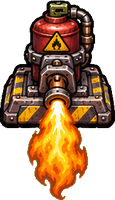
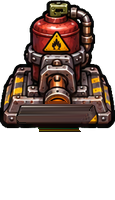
v86: long-press move, edit until confirm, floating building action bar, barricade h/v only, flame trap sprite without baked fire, flame aims within 180 deg, zombie attack animation on buildings
Claude-Session: https://claude.ai/code/session_01WxBp7HYiAZ43ejTTcJogED

Changed region(s): [[0.1304, 0.48, 0.8087, 1.0]]

diff --git a/index.html b/index.html
@@ -3915,10 +3915,10 @@ const DEF_R=430,PLG=40;
 const DEFB={mg:{n:'ป้อมปืนกล',c:70,hp:320,r:28,rng:240,cd:.16,ic:'🔫',d:'ยิงรัวในวงระยะ · หันฐานซ้าย/ขวาได้',solid:1,tgt:1,rot:2},
   cannon:{n:'ปืนใหญ่',c:130,hp:400,r:32,rng:300,cd:1.3,ic:'💣',d:'ยิงระเบิดวงกว้างในวงระยะ · หันฐานซ้าย/ขวาได้',solid:1,tgt:1,rot:2},
   tesla:{n:'เสาเทสลา',c:110,hp:340,r:28,rng:200,cd:1.1,ic:'⚡',d:'ฟ้าผ่าชิ่ง 4 ตัว (เฉพาะในวง)',solid:1,tgt:1},
-  barricade:{n:'แนวกั้น',c:40,hp:750,r:30,ic:'🧱',d:'ขวางทาง ซอมบี้ต้องทุบ · วางต่อกันชิดได้ · หมุนได้ (นอน/ตั้ง/มุม)',solid:1,rot:4,tgt:1},
+  barricade:{n:'แนวกั้น',c:40,hp:750,r:30,ic:'🧱',d:'ขวางทาง ซอมบี้ต้องทุบ · วางต่อกันชิดได้ · หมุนแนวนอน/แนวตั้ง',solid:1,rot:2,tgt:1},
   gate:{n:'ประตูเหล็ก',c:70,hp:900,r:30,ic:'🚪',d:'ยาว 3 ช่อง ต่อกับแนวกั้นได้ · ผู้เล่นผ่านได้ ซอมบี้ผ่านไม่ได้ · หมุนนอน/ตั้ง',solid:1,tgt:1,rot:2},
   spikes:{n:'กับดักหนาม',c:50,hp:100,r:30,rng:46,cd:.35,ic:'📌',d:'แถบหนามยาว 2 ช่อง ทิ่มซอมบี้ที่เหยียบ · หมุนได้',trap:1,rot:2},
-  flame:{n:'กับดักไฟ',c:90,hp:100,r:30,rng:140,cd:.3,ic:'🔥',d:'ซอมบี้เข้ากรวยแล้วพ่นไฟ · หมุนได้ 4 ทิศ',trap:1,rot:4,tgt:1},
+  flame:{n:'กับดักไฟ',c:90,hp:100,r:30,rng:140,cd:.3,ic:'🔥',d:'หัวพ่นหันหาซอมบี้ได้ครึ่งวง (180°) ตามทิศที่ตั้ง · หมุนได้ 4 ทิศ',trap:1,rot:4,tgt:1},
   ice:{n:'กับดักน้ำแข็ง',c:80,hp:100,r:32,rng:110,cd:.25,ic:'❄',d:'ซอมบี้ช้าลงมาก (สึกหรอเมื่อใช้) · หมุนได้',trap:1,rot:2}};
 const DEF2={};['bar_h','bar_v','bar_c','gate_c','gate_o','flame_r','flame_d','flame_u','mg_base','mg_head','can_base','can_head','gate_vc','gate_vo','fire'].forEach(k=>{const im=new Image();im.onload=()=>{DEF2[k]=im};im.src='img/def2/'+k+'.png'});
 const DEFE={normal:'🧟',fast:'🏃',tank:'🦍',boom:'💣',spit:'🤢',shield:'🛡',screamer:'😱',healer:'💉'};
@@ -3941,8 +3941,16 @@ function defInit(endless){const d={x:P.x,y:P.y-10,hp:2400,max:2400,wave:0,ph:'bu
   let g=document.getElementById('defGo');if(!g){g=document.createElement('button');g.id='defGo';
     g.style.cssText='position:fixed;z-index:6;left:max(12px,env(safe-area-inset-left));top:166px;background:linear-gradient(#a8741a,#5a3a08);color:#fff;border:2px solid #fd4;border-radius:14px;padding:7px 12px;font:inherit;font-size:14px;font-weight:700;box-shadow:0 3px 8px #000a';
     g.addEventListener('click',e=>{e.stopPropagation();defGoNow()});document.body.appendChild(g)}
-  if(!DEF_TAP){DEF_TAP=1;let tx=0,ty=0,tt=0;cv.addEventListener('pointerdown',e=>{tx=e.clientX;ty=e.clientY;tt=performance.now()});
-    cv.addEventListener('pointerup',e=>{if(!G.def||state!=='play'||performance.now()-tt>320||Math.hypot(e.clientX-tx,e.clientY-ty)>14)return;const w=scr2w(e);const o=defPick(w.x,w.y);if(o)bldMenu(o)})}}
+  if(!DEF_TAP){DEF_TAP=1;let tx=0,ty=0,tt=0,lx=0,ly=0,lpT=null,pid=null,down=0;
+    const lpClr=()=>{if(lpT){clearTimeout(lpT);lpT=null}};
+    cv.addEventListener('pointerdown',e=>{tx=lx=e.clientX;ty=ly=e.clientY;tt=performance.now();pid=e.pointerId;down=1;lpClr();
+      const d=G.def;if(!d||state!=='play'||d.ph!=='build')return;const w=scr2w(e),o=defPick(w.x,w.y);if(!o)return;
+      lpT=setTimeout(()=>{lpT=null;if(!down||!G.def||state!=='play'||G.def.ph!=='build'||G.def.blds.indexOf(o)<0)return;  // v86: กดค้างที่ชิ้น = ยกขึ้นมาย้ายเลย
+        joy.on=false;joy.dx=joy.dy=0;try{navigator.vibrate&&navigator.vibrate(18)}catch(_){}bldBarHide();defPlaceStart(o.k,o);const p=G.plc;if(!p)return;
+        const ww=scr2w({clientX:lx,clientY:ly});p.drg=1;p.pid=pid;p.gx=p.x-ww.x;p.gy=p.y-ww.y;const ov2=document.getElementById('plcO');try{ov2&&ov2.setPointerCapture(pid)}catch(_){}},380)},true);
+    document.addEventListener('pointermove',e=>{if(e.pointerId!==pid)return;lx=e.clientX;ly=e.clientY;if(lpT&&Math.hypot(lx-tx,ly-ty)>14)lpClr()});
+    ['pointerup','pointercancel'].forEach(t=>document.addEventListener(t,e=>{if(e.pointerId===pid){down=0;lpClr()}}));
+    cv.addEventListener('pointerup',e=>{if(!G.def||state!=='play'||performance.now()-tt>320||Math.hypot(e.clientX-tx,e.clientY-ty)>14)return;const w=scr2w(e);const o=defPick(w.x,w.y);if(o)bldBar(o);else bldBarHide()})}}
 let DEF_TAP=0;
 function scr2w(e){const r=cv.getBoundingClientRect(),sx=(e.clientX-r.left)*W_/r.width,sy=(e.clientY-r.top)*H_/r.height,zm=G.zm||1;return{x:P.x+(sx-W_/2)/zm,y:P.y+(sy-H_/2)/zm}}
 function defPick(x,y){let best=null,bd=1e9;for(const o of G.def.blds){if(o.hid)continue;const[hw,hh]=bBox(o),dd=Math.hypot(x-o.x,y-o.y);if(Math.abs(x-o.x)<hw+16&&Math.abs(y-o.y)<hh+30&&dd<bd){bd=dd;best=o}}return best}
@@ -3960,7 +3968,7 @@ function defMenu(){const d=G.def;if(!d||state!=='play')return;state='build';
   for(const k in DEFB){const b=DEFB[k],ok=d.scrap>=b.c&&d.blds.length<16;h+='<div class="btn" data-a="dbd" data-i="'+k+'" style="cursor:pointer;border-radius:12px;padding:8px;background:#0b1a10dd;border:2px solid '+(ok?'#9c6':'#444')+';'+(ok?'':'opacity:.55')+'">'+
     '<img src="img/'+(pic[k]||'def/'+k)+'.png" style="width:64px;height:64px;object-fit:contain"><div style="font-size:14px"><b>'+b.ic+' '+b.n+'</b></div><div style="font-size:12px;color:#bcd;min-height:30px">'+b.d+'</div><div style="font-size:15px;color:#ffd75a"><b>⚙ '+b.c+'</b></div></div>'}
   h+='</div><button class="big sec" data-a="dbx">← กลับไปเล่น</button>';page(h)}
-function defResume(){G.dsel=null;ov.style.display='none';state='play';last=performance.now();syncMbg()}
+function defResume(){bldBarHide();ov.style.display='none';state='play';last=performance.now();syncMbg()}
 function repCost(o){return Math.max(5,Math.ceil((1-o.hp/o.max)*DEFB[o.k].c*.5*(o.lv||1)))}
 function upCost(o){const c=DEFB[o.k].c;return (o.lv||1)===1?Math.round(c*.6):c}
 function defBuild(k){const d=G.def,b=DEFB[k];if(!d||!b)return;if(d.ph!=='build'){sfx('ui_err');return}if(d.scrap<b.c||d.blds.length>=16){sfx('ui_err');return}defPlaceStart(k,null)}
@@ -3976,29 +3984,54 @@ function defAct(a,i){const d=G.def,o=d&&d.blds[+i];if(!o)return defResume();cons
   else if(a==='dsl'){const sv=Math.round((o.inv||b.c)*(d.ph==='build'?.7:.4));d.scrap+=sv;d.blds.splice(+i,1);sfx('buy');burst(o.x,o.y,'#cde',10);defResume()}
   else if(a==='dmv'){if(d.ph!=='build')return;defPlaceStart(o.k,o)}}
 function defMenu2(){state='play';defMenu()}
+// v86: ปุ่มลอยบนหัวชิ้นที่แตะ (อัปเกรด/ซ่อม/ย้าย/หมุน/ขาย)
+function bldBar(o){const d=G.def;if(!d)return;G.dsel=o;let el=document.getElementById('bldF');if(!el){el=document.createElement('div');el.id='bldF';
+    el.style.cssText='position:fixed;z-index:7;display:none;transform:translate(-50%,-100%);gap:5px;align-items:center;flex-wrap:nowrap;pointer-events:auto';
+    el.addEventListener('pointerdown',e=>e.stopPropagation());el.addEventListener('click',e=>{e.stopPropagation();const t=e.target.closest('[data-b]');if(t)bldBarAct(t.dataset.b)});document.body.appendChild(el)}
+  el.dataset.sell='';bldBarDraw();el.style.display='flex';bldBarPos()}
+function bldBarDraw(){const el=document.getElementById('bldF'),d=G.def,o=G.dsel;if(!el||!o||!d)return;const b=DEFB[o.k],bp=d.ph==='build',lv=o.lv||1,uc=upCost(o),rc=repCost(o),sv=Math.round((o.inv||b.c)*(bp?.7:.4));
+  const B=(k,t,c,on)=>'<button data-b="'+k+'" style="margin:0;padding:6px 9px;width:auto;min-width:0;flex:none;border-radius:11px;font:inherit;font-size:13px;font-weight:700;color:#fff;border:2px solid '+c+';background:#111d;white-space:nowrap;'+(on===false?'opacity:.45':'')+'">'+t+'</button>';
+  let h='<div style="background:#000c;color:#ffd75a;padding:4px 8px;border-radius:10px;font-size:12px;white-space:nowrap">'+b.ic+' LV'+lv+' · '+Math.round(o.hp/o.max*100)+'%</div>';
+  if(lv<3)h+=B('up','⬆ ⚙'+uc,'#ffd75a',d.scrap>=uc);if(o.hp<o.max)h+=B('rep','🔧 ⚙'+rc,'#6cf',d.scrap>=rc);
+  if(bp){h+=B('mv','✋ ย้าย','#9f6');if(b.rot)h+=B('rot','🔄','#9cf')}
+  h+=el.dataset.sell?B('sellok','✔ ยืนยันขาย +'+sv,'#f66'):B('sell','💰 +'+sv,'#fa6');h+=B('x','✖','#888');el.innerHTML=h}
+function bldBarPos(){const el=document.getElementById('bldF'),o=G.dsel;if(!el)return;if(!o||!G.def||state!=='play'||G.def.blds.indexOf(o)<0){if(el.style.display!=='none'){el.style.display='none';G.dsel=null}return}
+  const zm=G.zm||1,sx=W_/2+(o.x-P.x)*zm,sy=H_/2+(o.y-70-P.y)*zm;el.style.left=Math.max(120,Math.min(W_-120,sx))+'px';el.style.top=Math.max(70,sy)+'px';
+  const k=(o.lv||1)+'|'+Math.round(o.hp/o.max*100)+'|'+G.def.scrap+'|'+G.def.ph;if(el.dataset.k!==k){el.dataset.k=k;bldBarDraw()}}
+function bldBarHide(){const el=document.getElementById('bldF');if(el)el.style.display='none';G.dsel=null}
+function bldBarAct(a){const d=G.def,o=G.dsel;if(!d||!o)return bldBarHide();const i=d.blds.indexOf(o),b=DEFB[o.k],el=document.getElementById('bldF');if(i<0)return bldBarHide();
+  if(a==='x')return bldBarHide();
+  if(a==='up'){const c=upCost(o);if((o.lv||1)>=3||d.scrap<c){sfx('ui_err');return}d.scrap-=c;o.inv=(o.inv||b.c)+c;o.lv=(o.lv||1)+1;const nm=b.hp*(1+(o.lv-1)*.35);o.max=nm;o.hp=nm;sfx('evo');burst(o.x,o.y,'#ffd75a',14)}
+  else if(a==='rep'){const c=repCost(o);if(d.scrap<c){sfx('ui_err');return}d.scrap-=c;o.hp=o.max;sfx('buy')}
+  else if(a==='mv'){if(d.ph!=='build')return;bldBarHide();defPlaceStart(o.k,o);return}
+  else if(a==='rot'){if(d.ph!=='build')return;const n=b.rot||1,nr=((o.rot||0)+1)%n,s1=plcSnap(o.k,nr,o.x,o.y);if(!plcValid(o.k,s1.x,s1.y,nr,o)){sfx('ui_err');G.ban={s:'🔄 หมุนตรงนี้ไม่ได้ (ชนชิ้นอื่น) · ลองกด ✋ ย้าย',t:1.6};return}o.rot=nr;o.x=s1.x;o.y=s1.y;if(isTur(o.k))o.a=nr===1?Math.PI:0;if(o.k==='flame')o.fa=undefined;sfx('ui')}
+  else if(a==='sell'){el.dataset.sell='1'}
+  else if(a==='sellok'){const sv=Math.round((o.inv||b.c)*(d.ph==='build'?.7:.4));d.scrap+=sv;d.blds.splice(i,1);sfx('buy');burst(o.x,o.y,'#cde',10);return bldBarHide()}
+  el.dataset.k='';bldBarDraw()}
 function defGoNow(){const d=G.def;if(!d||d.ph!=='build'||state!=='play')return;const bn=Math.floor(d.t)*2;d.scrap+=bn;d.t=0;if(bn)addTxt(P.x,P.y-60,'+'+bn+' ⚙ (เริ่มเร็ว)','#ffd75a')}
 // ---- วาง/ย้าย (v85: ตาราง ชิดกันได้ เว้นระยะป้อมยิง ลากเรียลไทม์) ----
 function plcValid(k,x,y,rot,skip){const d=G.def,b=DEFB[k],dc=Math.hypot(x-d.x,y-d.y);if(dc>(b.trap?DEF_R+80:DEF_R))return false;
   const[fw,fh]=bFp(k,rot),hw=fw*PLG/2,hh=fh*PLG/2;if(Math.abs(x-d.x)<hw+72&&Math.abs(y-(d.y-10))<hh+46)return false;
   for(const o of d.blds){if(o===skip)continue;const[ow,oh]=bFp(o.k,o.rot),g=bGap(k,o.k);if(Math.abs(o.x-x)<hw+ow*PLG/2+g-.5&&Math.abs(o.y-y)<hh+oh*PLG/2+g-.5)return false}
   const q={x,y};if(typeof pushOut==='function'){pushOut(q,Math.min(hw,hh)*.8+4);if(Math.hypot(q.x-x,q.y-y)>1)return false}return true}
-function defPlaceStart(k,mv){state='place';ov.style.display='none';const a=P.aim||0;G.dsel=null;
+function defPlaceStart(k,mv){state='place';ov.style.display='none';const a=P.aim||0;bldBarHide();
   if(mv){mv.hid=1;G.plc={k,x:mv.x,y:mv.y,rot:mv.rot||0,mv,ox:mv.x,oy:mv.y,orot:mv.rot||0}}
-  else{const s0=plcSnap(k,0,P.x+Math.cos(a)*110,P.y+Math.sin(a)*110);G.plc={k,x:s0.x,y:s0.y,rot:0,mv:null}}
+  else{const s0=plcSnap(k,0,P.x+Math.cos(a)*110,P.y+Math.sin(a)*110);G.plc={k,x:s0.x,y:s0.y,rot:0,mv:null};plcNear(G.plc)}
   let o=document.getElementById('plcO');if(!o){o=document.createElement('div');o.id='plcO';o.style.cssText='position:fixed;inset:0;z-index:8;touch-action:none';
-    const mvf=e=>{const p=G.plc;if(!p||!p.drg)return;const w=scr2w(e),s1=plcSnap(p.k,p.rot,w.x+p.gx,w.y+p.gy);if(s1.x!==p.x||s1.y!==p.y){p.x=s1.x;p.y=s1.y;p.mvd=1;plcBtns()}e.preventDefault()};
-    o.addEventListener('pointerdown',e=>{const p=G.plc;if(!p)return;try{o.setPointerCapture(e.pointerId)}catch(_){}const w=scr2w(e);p.drg=1;p.mvd=0;p.gx=p.x-w.x;p.gy=p.y-w.y;p.sx=p.x;p.sy=p.y;e.preventDefault()});
-    o.addEventListener('pointermove',mvf);
-    const up=e=>{const p=G.plc;if(!p||!p.drg)return;p.drg=0;if(!p.mvd)return;if(plcValid(p.k,p.x,p.y,p.rot,p.mv))defPlaceOk();else{p.x=p.sx;p.y=p.sy;sfx('ui_err');plcBtns()}};
-    o.addEventListener('pointerup',up);o.addEventListener('pointercancel',up);document.body.appendChild(o);
+    const mvf=e=>{const p=G.plc;if(!p||!p.drg||(p.pid!==undefined&&e.pointerId!==p.pid))return;const w=scr2w(e),s1=plcSnap(p.k,p.rot,w.x+p.gx,w.y+p.gy);if(s1.x!==p.x||s1.y!==p.y){p.x=s1.x;p.y=s1.y;p.mvd=1;plcBtns()}e.preventDefault()};
+    o.addEventListener('pointerdown',e=>{const p=G.plc;if(!p)return;try{o.setPointerCapture(e.pointerId)}catch(_){}const w=scr2w(e);p.drg=1;p.pid=e.pointerId;p.gx=p.x-w.x;p.gy=p.y-w.y;e.preventDefault()});
+    document.addEventListener('pointermove',mvf);
+    const up=e=>{const p=G.plc;if(!p||!p.drg||(p.pid!==undefined&&e.pointerId!==p.pid))return;p.drg=0;plcBtns()};  // v86: ปล่อยนิ้วแล้วยังแก้ต่อได้ จนกว่าจะกด ✅ วาง
+    document.addEventListener('pointerup',up);document.addEventListener('pointercancel',up);document.body.appendChild(o);
     const bb=document.createElement('div');bb.id='plcB';bb.style.cssText='position:fixed;z-index:9;left:50%;transform:translateX(-50%);bottom:max(10px,env(safe-area-inset-bottom));display:flex;gap:8px;align-items:center;flex-wrap:nowrap';
     const BS='margin:0;padding:9px 14px;width:auto;min-width:0;flex:none;border-radius:12px;font:inherit;font-size:15px;font-weight:700;color:#fff;border:2px solid ';
     bb.innerHTML='<div id="plcT" style="background:#000c;color:#fff;padding:6px 10px;border-radius:12px;font-size:13px;max-width:38vw"></div><button id="plcR" style="'+BS+'#9cf;background:#24405a">🔄 หมุน</button><button id="plcK" style="'+BS+'#9f6;background:#2d6a2a">✅ วาง</button><button id="plcX" style="'+BS+'#f88;background:#6a2a2a">❌ ยกเลิก</button>';document.body.appendChild(bb);
     bb.querySelector('#plcK').addEventListener('click',e=>{e.stopPropagation();defPlaceOk()});bb.querySelector('#plcX').addEventListener('click',e=>{e.stopPropagation();defPlaceEnd()});
     bb.querySelector('#plcR').addEventListener('click',e=>{e.stopPropagation();const p=G.plc;if(!p)return;const n=DEFB[p.k].rot||1;p.rot=((p.rot||0)+1)%n;const s1=plcSnap(p.k,p.rot,p.x,p.y);p.x=s1.x;p.y=s1.y;sfx('ui');plcBtns()})}
   o.style.display='block';document.getElementById('plcB').style.display='flex';document.getElementById('plcR').style.display=DEFB[k].rot?'':'none';plcBtns()}
-function plcBtns(){const p=G.plc;if(!p)return;const ok=plcValid(p.k,p.x,p.y,p.rot,p.mv),t=document.getElementById('plcT'),b=document.getElementById('plcK');if(t)t.textContent=DEFB[p.k].ic+' '+DEFB[p.k].n+(p.mv?' (ย้าย)':'')+' · '+(ok?'🟩 วางได้ · ลากแล้วปล่อยเพื่อวาง':'🟥 วางไม่ได้ · ลากไปที่ช่องเขียว');if(b)b.style.opacity=ok?1:.4}
+function plcBtns(){const p=G.plc;if(!p)return;const ok=plcValid(p.k,p.x,p.y,p.rot,p.mv),t=document.getElementById('plcT'),b=document.getElementById('plcK');if(t)t.textContent=DEFB[p.k].ic+' '+DEFB[p.k].n+(p.mv?' (ย้าย)':'')+' · '+(ok?'🟩 วางได้ · ลากปรับได้ แล้วกด ✅ วาง':'🟥 วางไม่ได้ · ลากไปที่ช่องเขียว');if(b)b.style.opacity=ok?1:.4}
 function defPlaceCancel(){defPlaceEnd()}
+function plcNear(p){if(plcValid(p.k,p.x,p.y,p.rot,p.mv))return;for(let R=1;R<=9;R++)for(let i=-R;i<=R;i++)for(const[dx,dy]of[[i,-R],[i,R],[-R,i],[R,i]]){const s1=plcSnap(p.k,p.rot,p.x+dx*PLG,p.y+dy*PLG);if(plcValid(p.k,s1.x,s1.y,p.rot,p.mv)){p.x=s1.x;p.y=s1.y;return}}}
 function defPlaceEnd(){const p=G.plc;if(p&&p.mv){p.mv.hid=0}G.plc=null;const o=document.getElementById('plcO'),b=document.getElementById('plcB');if(o)o.style.display='none';if(b)b.style.display='none';defResume()}
 function defPlaceOk(){const d=G.def,p=G.plc;if(!p||!d)return;const b=DEFB[p.k];if(!plcValid(p.k,p.x,p.y,p.rot,p.mv)){sfx('ui_err');return}
   if(p.mv){p.mv.x=p.x;p.mv.y=p.y;p.mv.rot=p.rot;p.mv.hid=0;sfx('ui');burst(p.x,p.y,'#cde',8);defPlaceEnd();return}
@@ -4007,20 +4040,20 @@ function drawPlc(){const p=G.plc;if(!p)return;const d=G.def,b=DEFB[p.k],R=7;ctx.
   for(let gx=-R;gx<=R;gx++)for(let gy=-R;gy<=R;gy++){if(gx*gx+gy*gy>R*R)continue;const x=(cx0+gx+.5)*PLG,y=(cy0+gy+.5)*PLG,s1=plcSnap(p.k,p.rot,x,y),ok=plcValid(p.k,s1.x,s1.y,p.rot,p.mv);ctx.fillStyle=ok?'rgba(60,220,90,.16)':'rgba(240,60,60,.16)';ctx.fillRect(x-PLG/2+1,y-PLG/2+1,PLG-2,PLG-2)}
   const ok=plcValid(p.k,p.x,p.y,p.rot,p.mv),hw=fw*PLG/2,hh=fh*PLG/2;ctx.fillStyle=ok?'rgba(80,255,120,.28)':'rgba(255,70,70,.3)';ctx.fillRect(p.x-hw,p.y-hh,hw*2,hh*2);ctx.strokeStyle=ok?'#6f8':'#f55';ctx.lineWidth=3;ctx.strokeRect(p.x-hw,p.y-hh,hw*2,hh*2);
   if(b.rng&&isTur(p.k)){ctx.globalAlpha=.16;ctx.fillStyle=ok?'#6f8':'#f55';ctx.beginPath();ctx.arc(p.x,p.y,b.rng,0,6.28);ctx.fill();ctx.globalAlpha=.6;ctx.strokeStyle=ok?'#6f8':'#f55';ctx.lineWidth=2;ctx.beginPath();ctx.arc(p.x,p.y,b.rng,0,6.28);ctx.stroke()}
-  if(p.k==='flame'){const fa=[0,1.5708,3.1416,-1.5708][p.rot||0];ctx.globalAlpha=.25;ctx.fillStyle=ok?'#fa4':'#f55';ctx.beginPath();ctx.moveTo(p.x,p.y);ctx.arc(p.x,p.y,b.rng,fa-.6,fa+.6);ctx.fill()}
+  if(p.k==='flame'){const fa=[0,1.5708,3.1416,-1.5708][p.rot||0];ctx.globalAlpha=.16;ctx.fillStyle=ok?'#fa4':'#f55';ctx.beginPath();ctx.moveTo(p.x,p.y);ctx.arc(p.x,p.y,b.rng,fa-1.5708,fa+1.5708);ctx.fill();ctx.globalAlpha=.3;ctx.beginPath();ctx.moveTo(p.x,p.y);ctx.arc(p.x,p.y,b.rng,fa-.45,fa+.45);ctx.fill()}
   if(p.k==='ice'){ctx.globalAlpha=.18;ctx.fillStyle=ok?'#9df':'#f55';ctx.beginPath();ctx.arc(p.x,p.y,b.rng,0,6.28);ctx.fill()}
   ctx.globalAlpha=.85;drawBld({k:p.k,x:p.x,y:p.y,rot:p.rot,a:p.rot===1&&isTur(p.k)?Math.PI:0,lv:1,hp:1,max:1});ctx.restore()}
 // ---- ซอมบี้ ----
 function defNearBld(z){let best=null,bd=1e9;for(const o of G.def.blds){if(!DEFB[o.k].tgt)continue;const dd=Math.hypot(o.x-z.x,o.y-z.y);if(dd<bd){bd=dd;best=o}}return best}
-function defZ(z,T,d,dt,ret){const D2=G.def;let ang=ret.ang,spd=ret.spd;
+function defZ(z,T,d,dt,ret){const D2=G.def;let ang=ret.ang,spd=ret.spd;if(z.hitT>0)z.hitT-=dt;
   if(z.tgD===undefined){const r=Math.random();z.tgD=T.kind==='boss'?1:r<.55?1:r<.85?2:0;if(T.kind==='fast'&&Math.random()<.3)z.clb=1}
   let tx,ty,tg=null;if(z.tgD===2){if(!z.tb||z.tb.hp<=0||D2.blds.indexOf(z.tb)<0)z.tb=defNearBld(z);if(!z.tb)z.tgD=1;else{tg=z.tb;tx=tg.x;ty=tg.y}}
   if(z.tgD===1){tg=D2;tx=D2.x;ty=D2.y}
   if(tg){const dx=tx-z.x,dy=ty-z.y,dd=Math.hypot(dx,dy);ang=Math.atan2(dy,dx);
     if(T.kind==='spit'&&dd<250){spd=0;z.sct=(z.sct||1)-dt;if(z.sct<=0){z.sct=1.8;D2.ac.push({x:z.x,y:z.y,sx:z.x,sy:z.y,tg,t:0,dm:22*defScale(D2.wave)*.5})}}
-    else if(tg===D2){if(dd<52+T.r)spd=0}else if(dd<(DEFB[tg.k].r||30)+T.r+10){spd=0;tg.hp-=T.dmg*.9*dt*(T.kind==='boss'?3:1);tg.fl=.1}}
+    else if(tg===D2){if(dd<52+T.r){spd=0;z.hitT=.25;z.hx=tx;z.hy=ty}}else if(dd<(DEFB[tg.k].r||30)+T.r+10){spd=0;tg.hp-=T.dmg*.9*dt*(T.kind==='boss'?3:1);tg.fl=.1;z.hitT=.25;z.hx=tg.x;z.hy=tg.y}}
   if(!z.clb){const bl=defBlock(z,dt);if(bl)spd=0}ret.ang=ang;ret.spd=spd}
-function defBlock(z,dt){const d=G.def;for(const o of d.blds){if(!DEFB[o.k].solid)continue;if(boxPush(z,z.T.r,o)){if(z.T.kind!=='goblin'){o.hp-=z.T.dmg*.9*(dt||1/60)*(z.T.kind==='boss'?3:1);o.fl=.1}return o}}return null}
+function defBlock(z,dt){const d=G.def;for(const o of d.blds){if(!DEFB[o.k].solid)continue;if(boxPush(z,z.T.r,o)){if(z.T.kind!=='goblin'){o.hp-=z.T.dmg*.9*(dt||1/60)*(z.T.kind==='boss'?3:1);o.fl=.1;z.hitT=.25;z.hx=o.x;z.hy=o.y}return o}}return null}
 function defSpawnOne(){const d=G.def,a=Math.random()*6.28,c={x:d.x+Math.cos(a)*820,y:d.y+Math.sin(a)*820};arenaIn(c,90);const k=d.plan.pop()||'normal';
   const z=mkZ(k,c.x,c.y,defScale(d.wave));if(z&&d.wave>=6&&Math.random()<.08&&typeof setAfx==='function')setAfx(z)}
 function updDef(dt){const d=G.def;if(d.hit>0)d.hit-=dt;
@@ -4066,20 +4099,25 @@ function defChain(o,first,rng,dm){const sx=o.x,sy=o.y-40,hit=new Set(),pts=[{x:s
     let nx=null,nd=190;for(const z of near(cur.x,cur.y,190)){if(z.hp<=0||hit.has(z)||z.T.cust)continue;if(Math.hypot(z.x-o.x,z.y-o.y)>rng)continue;const dd=Math.hypot(z.x-cur.x,z.y-cur.y);if(dd<nd){nd=dd;nx=z}}cur=nx}
   BOLT.push({pts,l:.25,ev:true});sfx('zap',o.x,o.y)}
 // v85: กับดักไฟ ติดไฟ(.25วิ) → พ่น(1.3วิ ต่อเวลาได้ถ้ายังมีซอมบี้) → พัก(1.5วิ)
-function flameNoz(o){const r=o.rot||0;return r===0?{x:o.x+34,y:o.y-14}:r===2?{x:o.x-34,y:o.y-14}:r===1?{x:o.x,y:o.y+16}:{x:o.x,y:o.y-40}}
-function defFlame(o,b,m,rng,dt){const d=G.def,fa=[0,1.5708,3.1416,-1.5708][o.rot||0],nz=flameNoz(o);o.fs=o.fs||'idle';o.ft=(o.ft||0)-dt;o.fr=(o.fr||0)+dt;
-  let see=false;const inC=z=>{const dx=z.x-nz.x,dy=z.y-(nz.y+14),dd=Math.hypot(dx,dy);if(dd>rng+z.T.r)return false;const df=Math.abs(Math.atan2(Math.sin(Math.atan2(dy,dx)-fa),Math.cos(Math.atan2(dy,dx)-fa)));return df<=.6||dd<30};
-  const zs=near(nz.x,nz.y,rng+40).filter(z=>z.hp>0&&!z.T.cust&&inC(z));see=zs.length>0;
+function flameNoz(o){const r=o.rot||0,n=r===0?{x:o.x+34,y:o.y-14}:r===2?{x:o.x-34,y:o.y-14}:r===1?{x:o.x,y:o.y+16}:{x:o.x,y:o.y-40},fb=[0,1.5708,3.1416,-1.5708][r],fa=o.fa===undefined?fb:o.fa;return{x:n.x-Math.cos(fb)*30+Math.cos(fa)*30,y:n.y-Math.sin(fb)*30+Math.sin(fa)*30}}  // v86: หัวพ่นหมุนรอบจุดหมุน
+function defFlame(o,b,m,rng,dt){const d=G.def,fb=[0,1.5708,3.1416,-1.5708][o.rot||0],nz=flameNoz(o);o.fs=o.fs||'idle';o.ft=(o.ft||0)-dt;o.fr=(o.fr||0)+dt;if(o.fa===undefined)o.fa=fb;
+  const AD=(x,y)=>Math.atan2(Math.sin(x-y),Math.cos(x-y));
+  // v86: หัวพ่นหันหาเป้าได้ครึ่งวง (±90° จากทิศที่ตั้ง)
+  let tz=null,td=1e9;for(const z of near(nz.x,nz.y,rng+40)){if(z.hp<=0||z.T.cust)continue;const dx=z.x-nz.x,dy=z.y-(nz.y+14),dd=Math.hypot(dx,dy);if(dd>rng+z.T.r)continue;if(Math.abs(AD(Math.atan2(dy,dx),fb))>1.75&&dd>30)continue;if(dd<td){td=dd;tz=z}}
+  let want=fb;if(tz){want=Math.atan2(tz.y-(nz.y+14),tz.x-nz.x);const df=AD(want,fb);want=fb+Math.max(-1.5708,Math.min(1.5708,df))}
+  const dA=AD(want,o.fa),turn=(tz?3.6:1.2)*dt;o.fa+=Math.max(-turn,Math.min(turn,dA));
+  const fa=o.fa,inC=z=>{const dx=z.x-nz.x,dy=z.y-(nz.y+14),dd=Math.hypot(dx,dy);if(dd>rng+z.T.r)return false;return Math.abs(AD(Math.atan2(dy,dx),fa))<=.45||dd<30};
+  const zs=near(nz.x,nz.y,rng+40).filter(z=>z.hp>0&&!z.T.cust&&inC(z)),see=zs.length>0;
   if(o.fs==='idle'){if(see){o.fs='ign';o.ft=.25;o.fr=0;sfx('trap_flame_start',o.x,o.y)}}
   else if(o.fs==='ign'){if(o.ft<=0){o.fs='fire';o.ft=1.3;o.fr=0;o.cd=0;sfx('trap_flame_loop',o.x,o.y)}}
   else if(o.fs==='fire'){o.cd-=dt;if(o.cd<=0){o.cd=b.cd;if(zs.length){for(const z of zs){hitZ(z,(7+G.dmg*.3)*m);z.brn=Math.max(z.brn||0,2);z.brnM=m}o.hp-=.8}}
-    d.fp=d.fp||[];if(d.fp.length<140&&Math.random()<dt*28){const L=rng*(.3+Math.random()*.75),q=fa+(Math.random()-.5)*.9;d.fp.push({x:nz.x+Math.cos(q)*L,y:nz.y+Math.sin(q)*L,vx:Math.cos(q)*40+(Math.random()-.5)*40,vy:Math.sin(q)*40-30,t:.5+Math.random()*.5,m:1})}
-    d.sc=d.sc||[];o.sct=(o.sct||0)-dt;if(o.sct<=0&&d.sc.length<40){o.sct=.25;const L=rng*(.35+Math.random()*.6),q=fa+(Math.random()-.5)*.7;d.sc.push({x:nz.x+Math.cos(q)*L,y:nz.y+14+Math.sin(q)*L,r:10+Math.random()*12,t:10,m:10})}
-    if(o.ft<=0){if(see&&o.hp>0){o.ft=1.3;sfx('trap_flame_loop',o.x,o.y)}else{o.fs='cool';o.ft=1.5;o.fr=0;sfx('trap_flame_end',o.x,o.y)}}}
+    d.fp=d.fp||[];if(d.fp.length<140&&Math.random()<dt*28){const L=rng*(.3+Math.random()*.75),q=fa+(Math.random()-.5)*.8;d.fp.push({x:nz.x+Math.cos(q)*L,y:nz.y+Math.sin(q)*L,vx:Math.cos(q)*40+(Math.random()-.5)*40,vy:Math.sin(q)*40-30,t:.5+Math.random()*.5,m:1})}
+    d.sc=d.sc||[];o.sct=(o.sct||0)-dt;if(o.sct<=0&&d.sc.length<40){o.sct=.25;const L=rng*(.35+Math.random()*.6),q=fa+(Math.random()-.5)*.6;d.sc.push({x:nz.x+Math.cos(q)*L,y:nz.y+14+Math.sin(q)*L,r:10+Math.random()*12,t:10,m:10})}
+    if(o.ft<=0){if((see||tz)&&o.hp>0){o.ft=1.3;sfx('trap_flame_loop',o.x,o.y)}else{o.fs='cool';o.ft=1.5;o.fr=0;sfx('trap_flame_end',o.x,o.y)}}}
   else if(o.fs==='cool'){if(o.ft<=0)o.fs='idle'}}
 function drawScorch(){const d=G.def;if(!d.sc||!d.sc.length)return;ctx.save();for(const s of d.sc){ctx.globalAlpha=.35*Math.min(1,s.t/3);ctx.fillStyle='#1a120c';ctx.beginPath();ctx.ellipse(s.x,s.y,s.r,s.r*.6,0,0,6.28);ctx.fill()}ctx.restore()}
 function drawFlames(){const d=G.def,im=DEF2.fire;ctx.save();
-  for(const o of d.blds){if(o.k!=='flame'||o.hid)continue;const nz=flameNoz(o),fa=[0,1.5708,3.1416,-1.5708][o.rot||0],rng=DEFB.flame.rng*(1+((o.lv||1)-1)*.08),fs=o.fs||'idle';
+  for(const o of d.blds){if(o.k!=='flame'||o.hid)continue;const nz=flameNoz(o),fa=o.fa!==undefined?o.fa:[0,1.5708,3.1416,-1.5708][o.rot||0],rng=DEFB.flame.rng*(1+((o.lv||1)-1)*.08),fs=o.fs||'idle';
     // ไฟนำ/หัวพ่นเรืองแสง
     const fl=.7+.3*Math.sin(G.t*23+o.x)*Math.sin(G.t*13+o.y),gr=fs==='ign'?18+20*(1-Math.max(0,o.ft)/.25):fs==='fire'?22:7*fl;
     ctx.globalCompositeOperation='lighter';const g=ctx.createRadialGradient(nz.x,nz.y,0,nz.x,nz.y,gr);g.addColorStop(0,fs==='idle'||fs==='cool'?'rgba(120,170,255,.9)':'rgba(255,240,180,.95)');g.addColorStop(1,'rgba(255,120,30,0)');ctx.fillStyle=g;ctx.beginPath();ctx.arc(nz.x,nz.y,gr,0,6.28);ctx.fill();
@@ -4102,7 +4140,7 @@ function drawBld(o){const b=DEFB[o.k];let im=null,sz=84,flip=false,ay=.7;
   if(im){const h=sz*im.height/im.width;if(flip){ctx.save();ctx.translate(o.x,o.y);ctx.scale(-1,1);ctx.drawImage(im,-sz/2,-h*ay,sz,h);ctx.restore()}else ctx.drawImage(im,o.x-sz/2,o.y-h*ay,sz,h)}}
 function drawDef(){const d=G.def,ti=DEFI.truck;
   ctx.save();ctx.strokeStyle=d.ph==='build'||G.plc?'rgba(255,215,90,.55)':'rgba(255,215,90,.18)';ctx.lineWidth=3;if(ctx.setLineDash)ctx.setLineDash([16,12]);ctx.beginPath();ctx.arc(d.x,d.y,DEF_R,0,6.28);ctx.stroke();if(ctx.setLineDash)ctx.setLineDash([]);ctx.restore();
-  drawScorch();
+  drawScorch();bldBarPos();
   if(d.ph==='build'||G.dsel||G.plc)for(const o of d.blds){if(o.hid||!isTur(o.k))continue;const r=DEFB[o.k].rng*(1+((o.lv||1)-1)*.08),sel=G.dsel===o;ctx.save();if(sel){ctx.globalAlpha=.14;ctx.fillStyle='#ffd75a';ctx.beginPath();ctx.arc(o.x,o.y,r,0,6.28);ctx.fill()}
     ctx.globalAlpha=sel?.9:.55;ctx.strokeStyle=sel?'#ffd75a':'#dff';ctx.lineWidth=sel?3:2.5;if(ctx.setLineDash)ctx.setLineDash([8,8]);ctx.beginPath();ctx.arc(o.x,o.y,r,0,6.28);ctx.stroke();ctx.restore()}
   if(G.plc)drawPlc();
@@ -4721,14 +4759,14 @@ function draw(){
 
     const za=ZAT[z.sk||(T.id==='boss'?'boss'+z.bv:T.id)];
     if(za){
-      const dx=P.x-z.x,dy=P.y-z.y,d=Math.hypot(dx,dy)||1,ca=dx/d,sa=dy/d;
+      const zh=z.hitT>0,dx=(zh?z.hx:P.x)-z.x,dy=(zh?z.hy:P.y)-z.y,d=Math.hypot(dx,dy)||1,ca=dx/d,sa=dy/d;  // v86: ตีกำแพง/ป้อม/รถ หันหาและใช้ท่าตี
       let vw=z.vw|0; // 0=หน้า(ลง) 1=ข้าง 2=หลัง(ขึ้น) พร้อม hysteresis
       if(vw===0&&sa<.6)vw=1;else if(vw===2&&sa>-.6)vw=1;
       if(vw===1){if(sa>.78)vw=0;else if(sa<-.78)vw=2}
       z.vw=vw;
       let f=G.freeze>0?0:1+((z.ph*1.4|0)&3);
       if(d<r+34&&G.freeze<=0)f=Math.sin(z.ph*2.2)>0?5:6;
-      if(z.atkT>0)f=z.atkT>.22?5:6;
+      if(z.atkT>0)f=z.atkT>.22?5:6;if(zh&&G.freeze<=0)f=Math.sin(z.ph*2.2)>0?5:6;
       const zs=r*4.6*(z.sc||1),bob=Math.abs(Math.sin(z.ph*1.4))*1.2;
       ctx.save();ctx.translate(z.x,z.y+r*.7-bob);{const zA=z.bur>0?.2:T.kind==='fl'?(d<230?1:.16+.06*Math.sin(G.t*9)):T.kind==='wr'?.85:1;if(zA<1)ctx.globalAlpha=zA}
       if(z.fl===undefined)z.fl=ca<0;else if(ca<-.3)z.fl=true;else if(ca>.3)z.fl=false;  // v79: กันภาพกลับซ้ายขวารัวๆ (ภาพซ้อนแว็บ)
@@ -5096,7 +5134,7 @@ function perfSpike(jf){
 function perfReport(n){
   const a=perfLoad().slice(-(n||3));
   if(!a.length)return 'ยังไม่มีข้อมูล เล่นสัก 1 รอบก่อน';
-  let o='ZRUN-PERF v85 (เกม v85) (แสดง '+a.length+' รอบล่าสุด)\n';
+  let o='ZRUN-PERF v86 (เกม v86) (แสดง '+a.length+' รอบล่าสุด)\n';
   a.forEach((r,i)=>{
     o+='\n=== RUN '+(i+1)+' '+r.ch+' | '+r.map+' | '+r.df+' | '+r.mo+' | mob'+r.mob+' dpr'+r.dpr+' vp'+r.vp+' zbase'+r.zb+' | จบที่ '+r.end+'s'+(r.dun!==undefined?' | เข้าดันเจี้ยนที่ '+r.dun+'s':'')+'\n'+r.ua+'\n';
     const mins={};r.rows.forEach(w=>{const m=Math.floor(w[0]/60);(mins[m]=mins[m]||[]).push(w)});

diff --git a/sw.js b/sw.js
@@ -1,4 +1,4 @@
-const C = 'zrun-v85';
+const C = 'zrun-v86';
 const FILES = ['./', 'index.html', 'manifest.json', 'icon.svg', 'icon-192.png', 'icon-512.png', 'img/z_goblin.png', 'img/z_screamer.png', 'img/z_shield.png', 'img/z_healer.png', 'img/z_necromancer.png'];
 self.addEventListener('install', e => {
   // ถ้าไฟล์ไหนไม่มี จะข้ามไปโดยไม่ทำให้การติดตั้งล้ม
